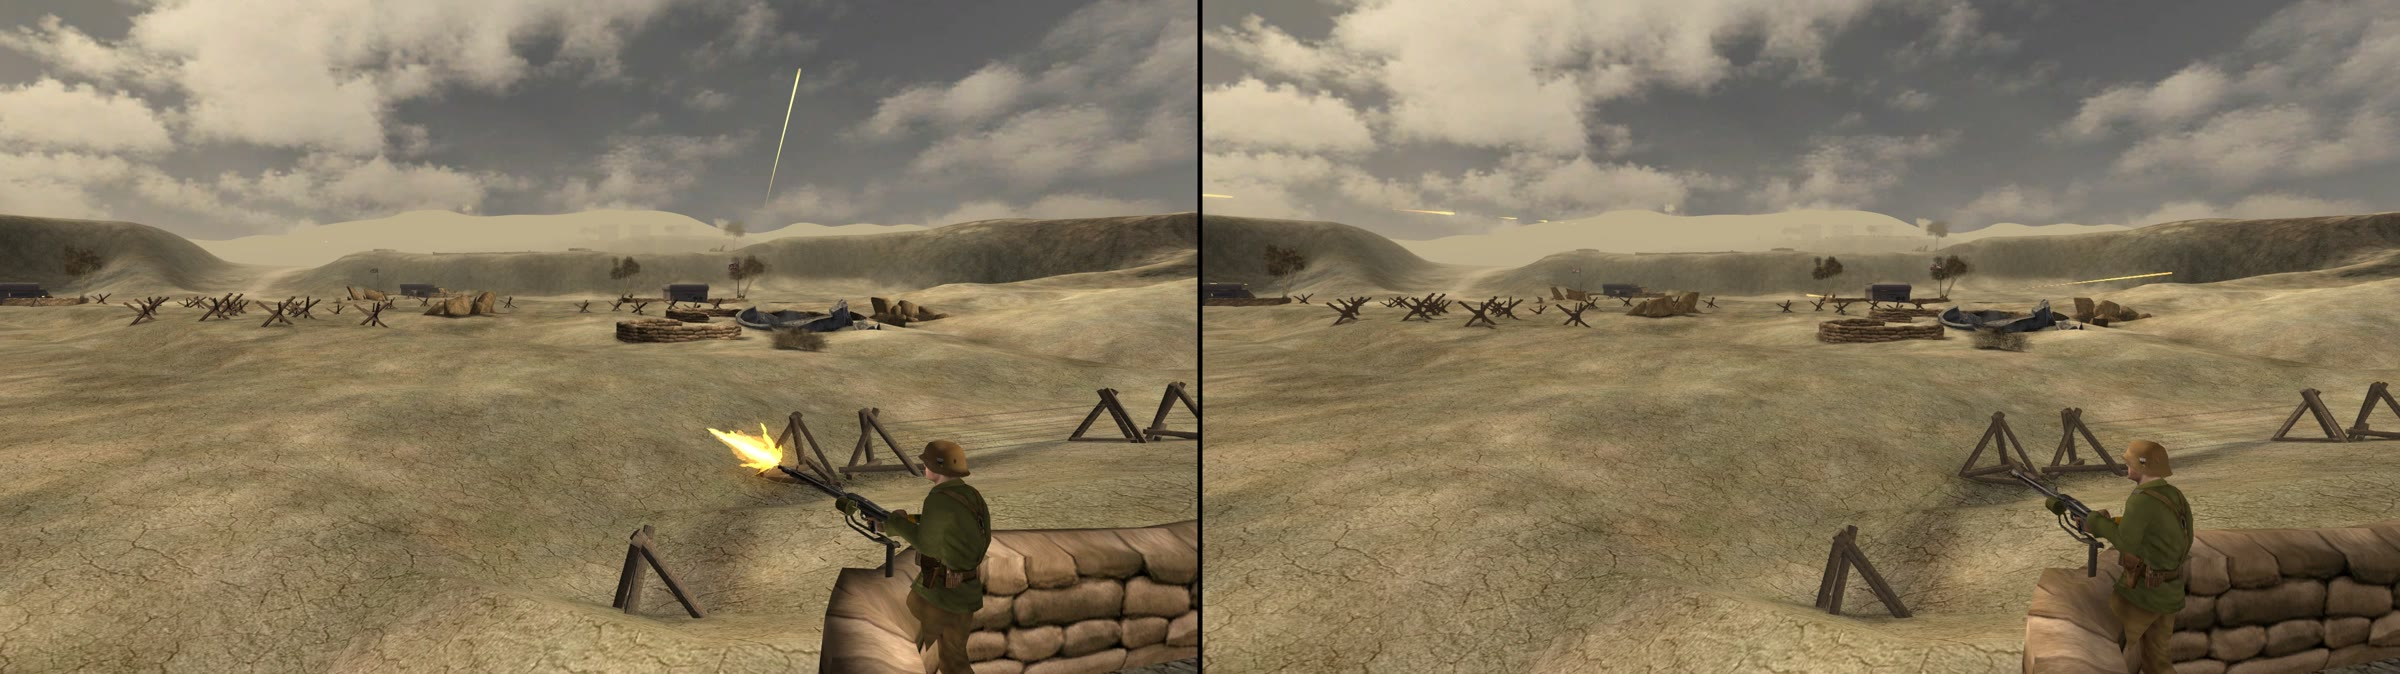
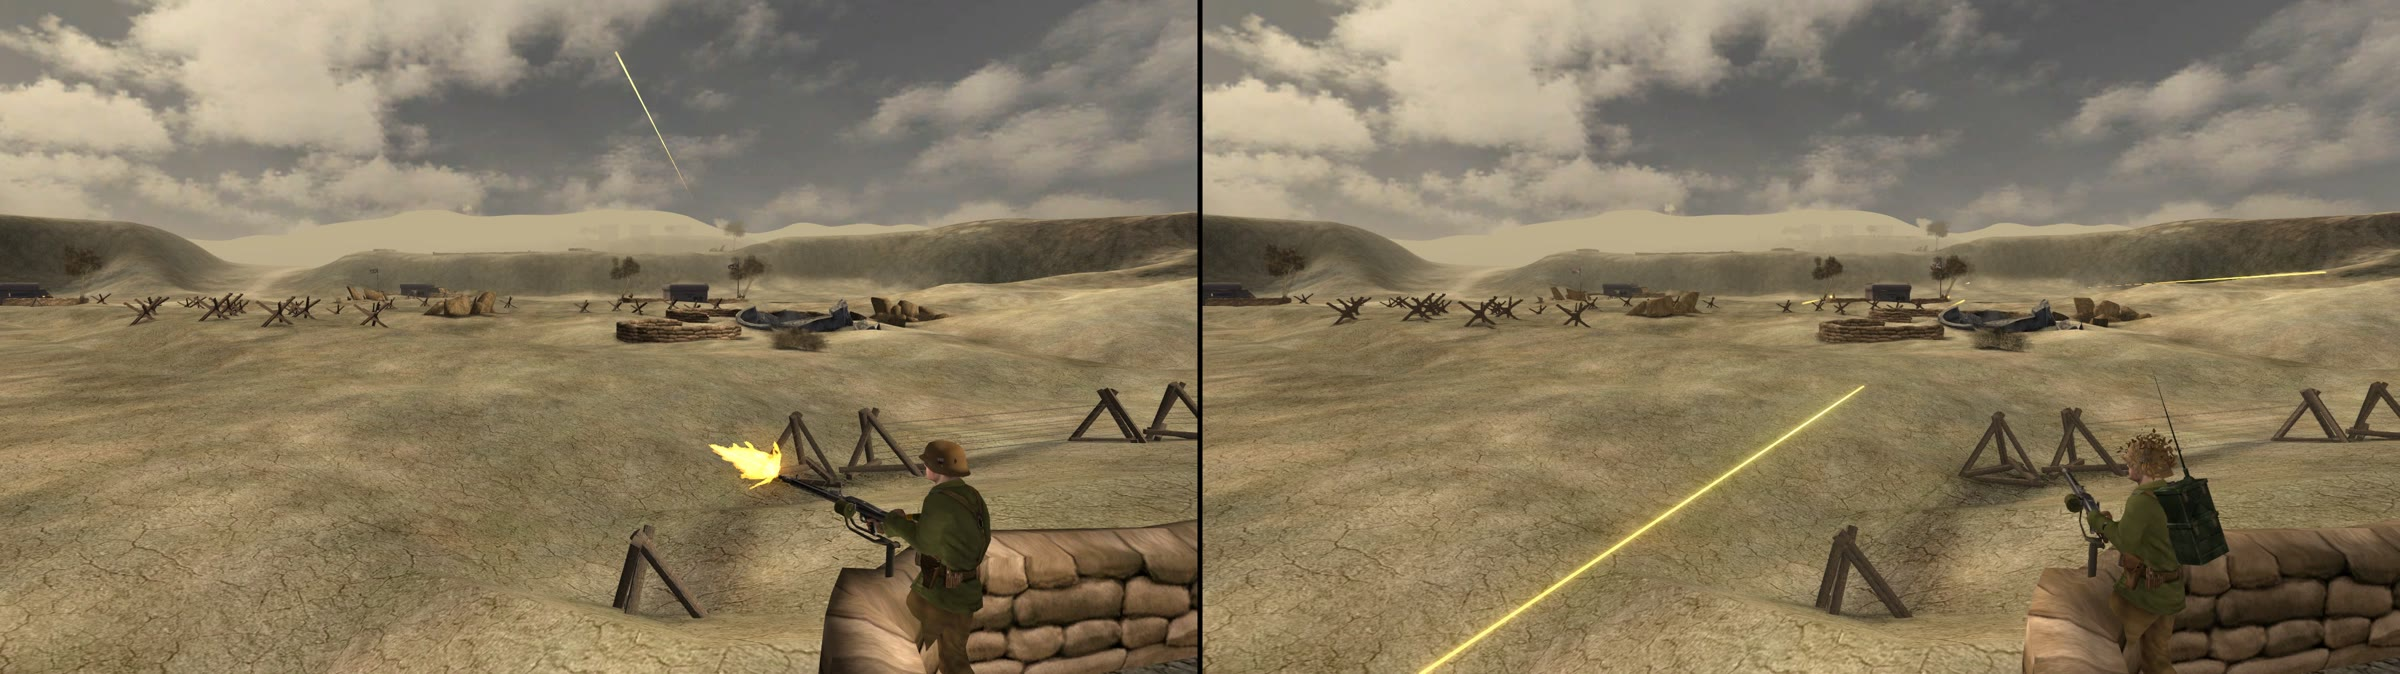
fix(remaster): effects as bright as their art and brighter: a blast that is not muffled, the MG's flash and flak lit, no pink flashes; brand cards on the reel
Effect sprites and gun flashes never had the 0.58 exposure undone, so a
blast's fire and dust layers drew at 0.58 of their art and every flash at
0.58 of its glow. A blast's light now draws after the layers that cover
it, the dark-smoke rule runs on the particle's own opacity and tint (in an
opacity node it read another sprite's), particles glow at 14 (the faint
layers retail summed in display space), the four flash lights go to the
flashes that count where the eye is, flak airbursts light and burn hot,
the tone curve goes channel by channel past 1 (a hot flash was pink), and
an additive glow mesh stays unlit. The AA gun going up: 39% of its core
white at its peak before, 94% now (retail 87%).

The reel opens and closes on the bfstats badge, after the BattleView
trailer's end card.

diff --git a/tools/bf1942-models/viewer/remaster-renderer.js b/tools/bf1942-models/viewer/remaster-renderer.js
@@ -4,7 +4,7 @@
 // 'three/webgpu' and 'three/tsl', which only the remaster import map names.
 
 import * as THREE from 'three/webgpu';
-import { FIRE, fireFlicker, flashKind, isFire } from './remaster-lights.js';
+import { FIRE, fireFlicker, flashKind, isFire, pickFlashSlot } from './remaster-lights.js';
 
 /**
  * A WebGPU renderer, initialised (its device is up) before the page goes on.
@@ -35,16 +35,25 @@ export async function createRemasterRenderer() {
   // under the shoulder passes through with its hue.
   const tsl = await import('three/tsl');
   const { Fn, float, max, mix, select, vec3 } = tsl;
+  //
+  // Past 1 (light: a flash, a blast, a flame, the sun's glint; the painted
+  // art is display-referred and stays under it) the shoulder goes channel
+  // by channel. Kept to the hue, a hot orange flash (3, 0.6, 0.1) went to
+  // salmon pink where the engine's additive layers saturated each channel
+  // and a rifle's flash was yellow-white (2026-11-15, first person on Wake).
   const remasterToneMapping = Fn(([color, exposure]) => {
     const start = float(0.76);
     const desat = float(0.15);
     const c = color.mul(exposure);
     const peak = max(c.r, max(c.g, c.b));
     const d = float(1).sub(start);
-    const newPeak = float(1).sub(d.mul(d).div(peak.add(d.sub(start))));
+    const curve = x => float(select(x.lessThan(start), x, float(1).sub(d.mul(d).div(x.add(d.sub(start))))));
+    const newPeak = curve(peak);
     const shoulder = c.mul(newPeak.div(peak));
     const g = float(1).sub(float(1).div(desat.mul(peak.sub(newPeak)).add(1)));
-    return select(peak.lessThan(start), c, mix(shoulder, vec3(newPeak), g));
+    const kept = vec3(select(peak.lessThan(start), c, mix(shoulder, vec3(newPeak), g)));
+    const each = vec3(curve(c.r), curve(c.g), curve(c.b));
+    return mix(kept, each, tsl.smoothstep(1, 2, peak));
   }).setLayout({
     name: 'remasterToneMapping', type: 'vec3',
     inputs: [{ name: 'color', type: 'vec3' }, { name: 'exposure', type: 'float' }],
@@ -195,6 +204,17 @@ export async function createRemasterScene({ renderer, scene, camera, sun, hemi }
   // (a muzzle's, a tracer) keeps the plain multiple: its shape is its
   // geometry, and the owner called the AA gun's "beautiful" as it is.
   const GLOW = 3;
+  // A particle's light, higher than a mesh flash's: a blast is a dozen
+  // faint layers that the engine summed in display space, where ten at 0.1
+  // make white; summed as light the same ten make far less. A fireball's
+  // faint edge (0.09 over sand) adds what retail's does at about 13. At 3,
+  // with its dust over it, Battleaxe's AA gun going up was 39% white at its
+  // peak where retail's was 89% (2026-11-15); at 6, drawn last, 71%, gone a
+  // second in; at 16, 96% and 62% a second in, as retail's. 14, with the
+  // bloom and the blast's light on top. A uniform, so a capture can measure
+  // another value.
+  const spriteGlow = tsl.uniform(14);
+  remasterHooks.spriteGlow = spriteGlow;
   const TRACER_GLOW = 12;
   const addsLight = m => m.blending === THREE.AdditiveBlending
     || (m.blending === THREE.CustomBlending && m.blendDst === THREE.OneFactor);
@@ -213,25 +233,57 @@ export async function createRemasterScene({ renderer, scene, camera, sun, hemi }
   const cut = m => m.alphaTest > 0.01;
   const coversDark = m => m.blending === THREE.NormalBlending
     || (m.blending === THREE.CustomBlending && m.blendSrc === THREE.SrcAlphaFactor && m.blendDst === THREE.OneMinusSrcAlphaFactor);
+  // The raise is applied where effects.js sets the particle's opacity each
+  // frame (`remasterHooks.smokeOpacity`), not in the material's nodes. In
+  // an opacity node, a death's smoke at 0.03 drew as a black square, and a
+  // blast's fire and dust layers drew as a pale veil over the fireball half
+  // a second in, where retail's stays white for a second and a half
+  // (Battleaxe's AA gun going up, 2026-11-15): with an opacity node that
+  // was `materialOpacity` itself the veil was the same, without one it was
+  // gone.
+  //
+  // Dark is the particle's tint (its colour over time, display values), not
+  // the texel's, and near black only: black smoke is a dark tint from its
+  // first frame (a burning car's starts at 0 0 0), while a blast's fire
+  // layers age through grey (145 138 138) to dark over art with dark texels
+  // in it, and taken as smoke they smothered its fire.
   function smoke(m) {
-    m.remasterGlow = true;
-    // Asked in the opacity node, where three asks for the material's
-    // opacity itself: read inside a colour node it came back as some other
-    // sprite's, and a death's smoke at 0.03 drew as a black square.
-    const d = tsl.diffuseColor;
-    const a = d.a.mul(tsl.materialOpacity).clamp(0, 1);
-    const dark = tsl.float(1).sub(tsl.float(1).sub(a).pow(2.2));
-    const lum = tsl.sRGBTransferOETF(d.rgb.max(0)).dot(tsl.vec3(0.2126, 0.7152, 0.0722)).clamp(0, 1);
-    m.opacityNode = tsl.mix(dark, a, tsl.smoothstep(0, 0.45, lum)).div(d.a.max(1e-4));
-    m.needsUpdate = true;
+    m.userData.remasterSmoke = true;
   }
+  remasterHooks.smokeOpacity = (m, opacity, color) => {
+    if (!m.userData.remasterSmoke || !color) return opacity;
+    const lum = 0.2126 * color[0] + 0.7152 * color[1] + 0.0722 * color[2];
+    const t = Math.min(1, Math.max(0, lum / 0.15));
+    const w = t * t * (3 - 2 * t);
+    const dark = 1 - (1 - opacity) ** 2.2;
+    return dark + (opacity - dark) * w;
+  };
+  // An effect is painted for the screen, as the engine-combine surfaces are,
+  // and is handed the exposure to undo as they are (`viewGain`, 1 / 0.58).
+  // Until 2026-11-15 it was not: a sprite that covers (an explosion's fire
+  // layers, its dust, a burning car's smoke) drew at 0.58 of its art, a dull
+  // brown veil over the blast's fireball, and every flash and burst gave
+  // 0.58 of the GLOW it was meant to, which left a machine gun's flash and a
+  // flak burst as bright as retail's (the owner, on the showreel: "the
+  // explosion ... in retail looks way better than ours. Ours is sort of
+  // muffled", the MG's flash and the flak "look exactly the same").
+  // Tracers keep the gain they were tuned at (`TRACER_GLOW`).
   remasterHooks.glow = (m, { sprite = false, gain = GLOW } = {}) => {
     if (!m || m.remasterGlow) return;
     if (!addsLight(m)) {
-      if (sprite && m.transparent && coversDark(m) && !cut(m)) smoke(m);
+      if (!sprite) return;
+      m.remasterGlow = true;
+      m.colorNode = tsl.vec4(tsl.materialColor.rgb.mul(viewGain), tsl.materialColor.a);
+      if (m.transparent && coversDark(m) && !cut(m)) smoke(m);
+      m.needsUpdate = true;
       return;
     }
+    if (gain === GLOW) gain = (sprite ? spriteGlow : tsl.float(GLOW)).mul(viewGain);
     m.remasterGlow = true;
+    // Drawn after every sprite that covers (effects.js reads it): the light
+    // a fire gives is not dimmed by its own dust. Sorted among them by
+    // distance, a blast's fireball sat under its brown fire and dust layers.
+    if (sprite) m.userData.remasterLight = true;
     const c = tsl.materialColor;
     const byAlpha = m.blending === THREE.AdditiveBlending || m.blendSrc === THREE.SrcAlphaFactor;
     if (sprite && byAlpha && !cut(m)) {
@@ -245,7 +297,9 @@ export async function createRemasterScene({ renderer, scene, camera, sun, hemi }
       // engine's blend did; the material's fade is applied by the opacity
       // node alone (a material's opacity read in a colour node is not
       // always its own: "A material's opacity read inside a colour node",
-      // below).
+      // below). Carried instead as the colour's alpha, for three's own
+      // fade, the AA gun's blast held 0% white a second in where this
+      // holds 47% (2026-11-15).
       const a = c.a.clamp(1 / 255, 1);
       const display = tsl.sRGBTransferOETF(c.rgb).mul(a).clamp(0, 1);
       m.colorNode = tsl.vec4(tsl.sRGBTransferEOTF(display).mul(gain).div(a), 1);
@@ -292,7 +346,7 @@ export async function createRemasterScene({ renderer, scene, camera, sun, hemi }
     l.castShadow = false;
     l.userData.remasterFlash = true;
     scene.add(l);
-    flashes.push({ light: l, t: 0, life: 1, peak: 0 });
+    flashes.push({ light: l, t: 0, life: 1, peak: 0, at: { x: 0, y: 0, z: 0 } });
   }
   // Fires: two lights, given each frame to the two fires nearest the eye.
   const fireLights = [];
@@ -354,17 +408,22 @@ export async function createRemasterScene({ renderer, scene, camera, sun, hemi }
     scene.add(sprite);
     return { sprite, strength, size: 0 };
   });
-  let flashNext = 0;
   const _flashAt = new THREE.Vector3();
+  const _flashEye = new THREE.Vector3();
   remasterHooks.flash = (name, position, object = null) => {
     if (!position && !object) return;
     const kind = flashKind(name);
     if (!kind) return;
-    const slot = flashNext++ % flashes.length;
-    const f = flashes[slot];
     // A muzzle bundle plays attached to its gun, with no position of its own.
     if (!position) { object.updateWorldMatrix(true, false); object.getWorldPosition(_flashAt); }
     const p = !position ? _flashAt : position.isVector3 ? position : { x: position[0], y: position[1], z: position[2] };
+    // The slot: a free one, else the flash that counts least where the eye
+    // is (remaster-lights.js `pickFlashSlot`).
+    camera.getWorldPosition(_flashEye);
+    const slot = pickFlashSlot(flashes, _flashEye, kind.intensity, p);
+    if (slot < 0) return null;
+    const f = flashes[slot];
+    f.at = { x: p.x, y: p.y, z: p.z };
     f.light.position.set(p.x, p.y + 0.6, p.z);
     f.light.updateMatrixWorld();
     f.light.color.set(kind.color);

diff --git a/tools/bf1942-models/viewer/remaster-lights.js b/tools/bf1942-models/viewer/remaster-lights.js
@@ -21,6 +21,10 @@
 export const FLASH_KINDS = [
   { test: /expl(drysand|frozensnow|window|small)|collision|richo|ricoch|scrap/i, intensity: 0 },
   { test: /bomb|granadeexpl|groundexpl|waterexpl|expl(armor|bazooka|boatarmor|gas|ani)|torpedo/i, intensity: 150, range: 60, life: 0.45, color: 0xffb070 },
+  // A flak shell's airburst (`e_FlakBig`): the blast's light and a hot core
+  // 4 m across for the bloom. Not lit until 2026-11-15, it drew as retail's
+  // (the owner: the flak bursts "look exactly the same").
+  { test: /flakbig/i, intensity: 120, range: 45, life: 0.3, color: 0xffb070, burst: 4 },
   // A tank's main gun, a self-propelled gun's, a coastal or a ship's gun.
   { test: /muzz(panz|sexton|priest|defgun)/i, intensity: 90, range: 30, life: 0.13, color: 0xffc080, burst: 2.8 },
   // An anti-aircraft gun.
@@ -33,6 +37,30 @@ export const FLASH_KINDS = [
   { test: /muzz(heavy|b17)/i, intensity: 16, range: 14, life: 0.07, color: 0xffc890, burst: 0.45 },
   { test: /muzz/i, intensity: 1.2, range: 8, life: 0.05, color: 0xffc890 },
 ];
+
+/**
+ * The slot of the flash pool a new flash at `p` (`{ x, y, z }`, with
+ * `peak` its light) takes, seen from `eye`: a free one, else the one whose
+ * flash counts least there (its light left, over its distance squared).
+ * -1 when the new flash counts less than every one lit: it is not lit.
+ * Each slot is `{ t, life, peak, at: { x, y, z } }`. Taken in turn, eight MG
+ * nests at ten rounds a second were eighty flashes a second for four lights:
+ * the gun in front of the camera lost its light and its burst to guns 150 m
+ * off within 50 ms, and its flash drew as retail's (2026-11-15).
+ */
+export function pickFlashSlot(slots, eye, peak, p) {
+  const weight = (w, q) => w / Math.max(1, (q.x - eye.x) ** 2 + (q.y - eye.y) ** 2 + (q.z - eye.z) ** 2);
+  let slot = -1;
+  let least = Infinity;
+  for (let i = 0; i < slots.length; i++) {
+    const g = slots[i];
+    if (g.t <= 0) return i;
+    const left = g.t / g.life;
+    const w = weight(g.peak * left * left, g.at);
+    if (w < least) { least = w; slot = i; }
+  }
+  return weight(peak, p) < least ? -1 : slot;
+}
 
 /** The flash an effect bundle makes, or null when it lights nothing. */
 export function flashKind(name) {

diff --git a/tools/bf1942-models/viewer/effects.js b/tools/bf1942-models/viewer/effects.js
@@ -1075,6 +1075,9 @@ export class EffectPlayer {
         remasterHooks.glow?.(material, { sprite: true });
         const geometry = animated ? source.geometry.clone() : source.geometry;
         mesh = new THREE.Mesh(geometry, material);
+        // Remaster mode: a sprite that gives light is drawn after those that
+        // cover (remaster-renderer.js `glow`).
+        if (material.userData.remasterLight) mesh.renderOrder = 1;
         mesh.userData.poolKey = key;
         mesh.frustumCulled = false;
         if (world.mask != null) mesh.layers.mask = world.mask;
@@ -1265,7 +1268,9 @@ export class EffectPlayer {
       if (look.color) {
         material.color.setRGB(look.color[0], look.color[1], look.color[2], THREE.SRGBColorSpace);
       }
-      material.opacity = look.opacity;
+      // Remaster mode: black smoke as dense as the engine's display-space
+      // blend drew it (remaster-renderer.js `smokeOpacity`).
+      material.opacity = remasterHooks.smokeOpacity?.(material, look.opacity, look.color) ?? look.opacity;
       if (p.spec.numAnimationFrames > 1) {
         // The spec is the shared template's `particle` object (one per
         // emitter, not per particle), so caching the grid there costs

diff --git a/tools/bf1942-models/viewer/level-shading.js b/tools/bf1942-models/viewer/level-shading.js
@@ -604,6 +604,12 @@ export function createLevelShading(page) {
           view.bfShade = { value: new THREE.Vector4(1, 1, 1, 0) };
           return view;
         }
+        // Remaster mode: a glow the exporter marks additive (a bullet's
+        // impact flash on the ground, a gun's muzzle mesh) is light, not a
+        // surface, and stays unlit, as the effect meshes skipped above do.
+        // Lit, it took the sun's N.L and the shadow: the soft glow a round
+        // throws up where it lands drew as a white speck (2026-11-15).
+        if (remasterHooks.materials && m.userData?.additive) return mat;
         if (remasterHooks.materials) {
           // Remaster mode: this same combine as a node material, with the
           // sun's real-time shadow in its sun term (remaster-materials.js).

diff --git a/tools/bf1942-models/viewer/test-hooks.js b/tools/bf1942-models/viewer/test-hooks.js
@@ -75,6 +75,8 @@ export function installTestHooks(page) {
     // Scene handles for offline inspection: isolating one shader term is the
     // only practical way to attribute an artefact to it.
     window.__scene = page.scene;
+    // The first-person overlay's scene (the arms, the gun, its flash).
+    Object.defineProperty(window, '__vmScene', { get: () => page.vmScene, configurable: true });
     window.__camera = page.camera;
     window.__renderer = page.renderer;
     window.__THREE = THREE;

diff --git a/tools/bf1942-models/tests/test_remaster_lights.py b/tools/bf1942-models/tests/test_remaster_lights.py
@@ -69,6 +69,23 @@ class RemasterLightsTests(unittest.TestCase):
             self.assertIsNone(flash[name], name)
         self.assertEqual([None, None, False, False], self.results["none"])
 
+    def test_a_flak_burst_is_a_blast_with_a_hot_core(self) -> None:
+        flash = self.results["flash"]
+        flak = flash["e_FlakBig"]
+        self.assertGreater(flak["intensity"], flash["e_MuzzPanz"]["intensity"])
+        self.assertGreater(flak["burst"], flash["e_MuzzAAGun"]["burst"])
+        # The gun's own scrap when it is destroyed lights nothing.
+        self.assertIsNone(flash["e_ScrapAAFlak38"])
+
+    def test_the_flash_pool_lights_what_counts_where_the_eye_is(self) -> None:
+        pool = self.results["pool"]
+        self.assertEqual(1, pool["free"])
+        # Held by far guns, the near gun takes the farthest one's light.
+        self.assertEqual(1, pool["near"])
+        # Held by near guns, a far gun's flash is not lit.
+        self.assertEqual(-1, pool["far"])
+        self.assertEqual(1, pool["spent"])
+
     def test_a_fire_is_a_burning_bundle_and_nothing_else(self) -> None:
         fire = self.results["fire"]
         burning = {"e_WillyFire", "e_PanzFire", "e_CorsairFire", "e_fire4"}

diff --git a/features/remaster-browser/README.md b/features/remaster-browser/README.md
@@ -69,6 +69,8 @@ wins", below).
 | A staged MG crossfire on Battleaxe for the tracers | done (2026-11-14) |
 | The player's own rounds drawn from the muzzle in first person | done (2026-11-14) |
 | The showreel: the remaster's features first with captions, the pairs last; a staged gunner held on the gun in shot | done (2026-11-15) |
+| Effects that looked like retail or worse: a muffled blast, the MG's flash, flak, a pink first-person flash | fixed (2026-11-15) |
+| The reel's title and end cards in the bfstats brand | done (2026-11-15) |
 
 ## How to turn it on
 
@@ -916,6 +918,80 @@ again.
 ![A burning car before and after](marketing/kharkov_fire_side_by_side.jpg)
 
 ![An MG42 nest before and after](marketing/battleaxe_mg42_nest_side_by_side.jpg)
+
+### Owner feedback on the reel, 2026-11-15
+
+"The muzzle flash on the MG looks exactly the same as retail", "the
+explosion ... in retail looks way better than ours. Ours is sort of muffled.
+Are we sure that it's working as intended", "flak bursts look exactly the
+same". It was not working as intended, in five ways; measured on the Allied
+AA gun going up in recording `ymdy248edr` (the share of the blast's core
+drawn white, frame by frame, retail first):
+
+| | peak | 0.3 s | 0.8 s | 1.1 s |
+|---|---|---|---|---|
+| retail | 87% | 90% | 84% | 73% |
+| remaster before | 39% | 31% | 0% | 0% |
+| remaster now (gain 14) | 94% | 90% | 58% | 34% |
+
+- **Effects never had the exposure undone.** The frame is drawn at an
+  exposure of 0.58 and the engine-combine surfaces are handed `viewGain`
+  (1 / 0.58) to undo it; effect sprites and gun flashes were not. A sprite
+  that covers (a blast's fire and dust layers, a car's smoke) drew at 0.58
+  of its art, and every flash and burst gave 0.58 of its GLOW: a heavy MG's
+  flash and a flak burst came out as bright as retail's. Now `glow` gives
+  every effect material the same gain (tracers keep their tuned one).
+- **A blast's light was under its own dust.** Sorted by distance, the
+  additive fireball layers sat under the brown fire and dust layers that
+  cover. A sprite that gives light is drawn after those that cover
+  (`userData.remasterLight`, `renderOrder` 1 in effects.js).
+- **The dark-smoke rule read an opacity that was not the sprite's own.**
+  `smoke` set an opacity node that read `materialOpacity`; with that node the
+  blast's layers drew as a pale veil half a second in, and with an opacity
+  node that was `materialOpacity` itself the veil was the same. The rule now
+  runs where effects.js sets each particle's opacity
+  (`remasterHooks.smokeOpacity`), on the particle's own tint and only near
+  black, so a burning car's black smoke keeps its density and a fireball's
+  greying fire layers are not taken for smoke. (The additive sprites' own
+  opacity node stays: moved into the colour's alpha instead, the blast held
+  0% white a second in.)
+- **Faint layers add up to less as light.** The engine summed a blast's dozen
+  faint layers in display space, where ten at 0.1 are white; as light the
+  same ten make far less, and a fireball's faint edge over sand adds what
+  retail's does only at a gain of about 13. Particles now glow at 14
+  (`spriteGlow`, a uniform a capture can change); mesh flashes keep 3.
+- **The flash lights went to the wrong guns.** Four lights, taken in turn:
+  eight MG nests at ten rounds a second took them from the gun in front of
+  the camera within 50 ms, its burst with them. `pickFlashSlot`
+  (remaster-lights.js): a free light, else the one that counts least where
+  the eye is; a flash that counts less than every one lit is not lit.
+- **Flak bursts lit nothing.** `e_FlakBig` had no row in `FLASH_KINDS`; it
+  now has a blast's light and a hot core 4 m across.
+- **A hot flash went pink.** The tone curve kept a highlight's hue, so a
+  rifle's orange flash (3, 0.6, 0.1 after the exposure) went to salmon where
+  the engine's additive layers saturated each channel to yellow-white. Past
+  1 (light only: the painted art is display-referred and stays under it) the
+  shoulder now goes channel by channel.
+- **A glow lit as a surface.** A material the exporter marks additive (a
+  round's impact glow on the ground, a gun's muzzle mesh) reaching the
+  shading pass was rebuilt as a lit surface in the remaster, the sun's N.L
+  and shadow on a light. It stays unlit now, as the effect meshes skipped
+  before it do.
+
+The flak shots moved too: the recording's AA guns fire almost level, so the
+staged Flak 38s (`gunners.aimAt`) fire at the sky, and the camera is up among
+the bursts, 110 m from them, where they were a few pixels from the ground.
+
+![The AA gun going up, before and after](marketing/battleaxe_allied_aa_side_by_side.jpg)
+
+The reel opens and closes on the bfstats brand, after the BattleView
+trailer's end card (features/battleview-install-page, "Hero video"): an
+olive vignette, the badge (`viewer/bfstats-logo.webp`) over a two-part title,
+a gold rule and "A PROJECT BY AND FOR THE COMMUNITY · bfstats.io". The title
+comes up first, the badge and credit after it. "Remaster | BF1942 in the
+browser" opens it; "Remaster | play it at play.bfstats.io" closes it.
+
+![The title card](marketing/card_intro.jpg)
 
 ## Bugs found on the way
 
